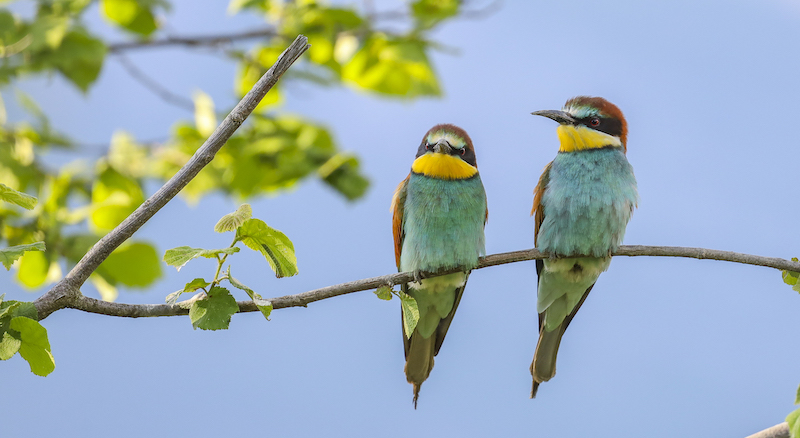
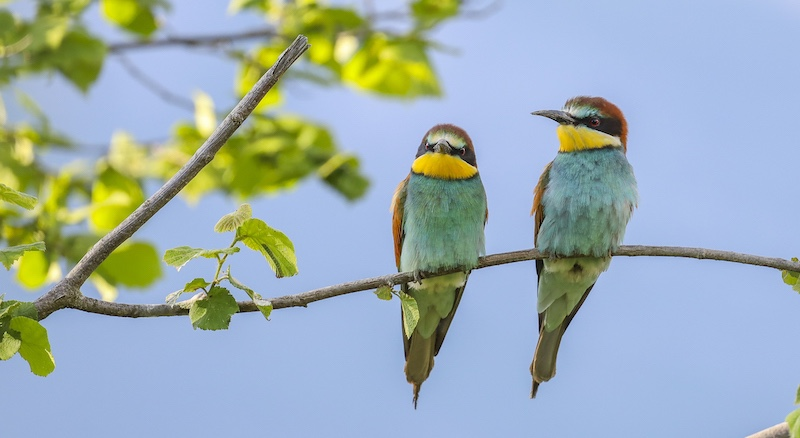
refactor: improve performance by compressing jpg file and serving alternative webp file

diff --git a/src/app/home/home.component.html b/src/app/home/home.component.html
@@ -4,13 +4,17 @@
   <div class="row justify-content-center">
     <div class="mb-4 col col-lg-8">
       <div class="position-relative">
-        <img
-          src="/assets/birds.jpg"
-          width="800"
-          height="438"
-          class="img-fluid w-100"
-          alt="deux jolis guêpiers sur une branche, dans un ciel bleu d'été"
-        />
+        <picture>
+          <source type="image/webp" srcset="/assets/birds.webp" />
+          <source type="image/jpeg" srcset="/assets/birds.jpg" />
+          <img
+            src="/assets/birds.jpg"
+            width="800"
+            height="438"
+            class="img-fluid w-100"
+            alt="deux jolis guêpiers sur une branche, dans un ciel bleu d'été"
+          />
+        </picture>
         <p
           *ngIf="vm.user"
           class="m-3 p-2 rounded lead text-white fs-4 darken"
